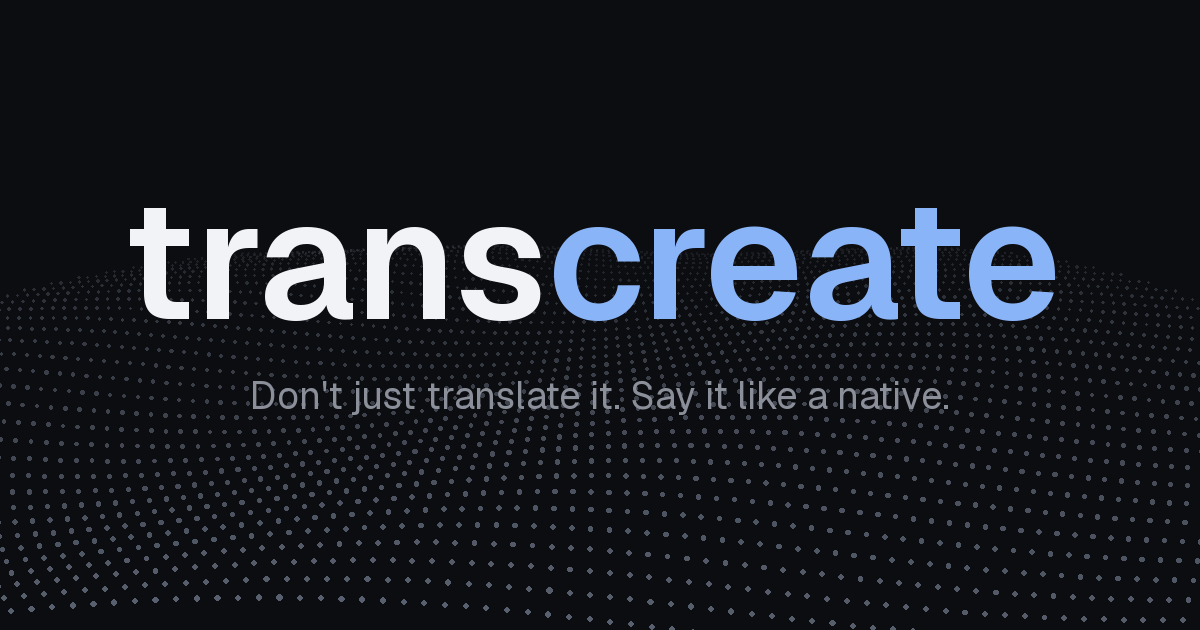
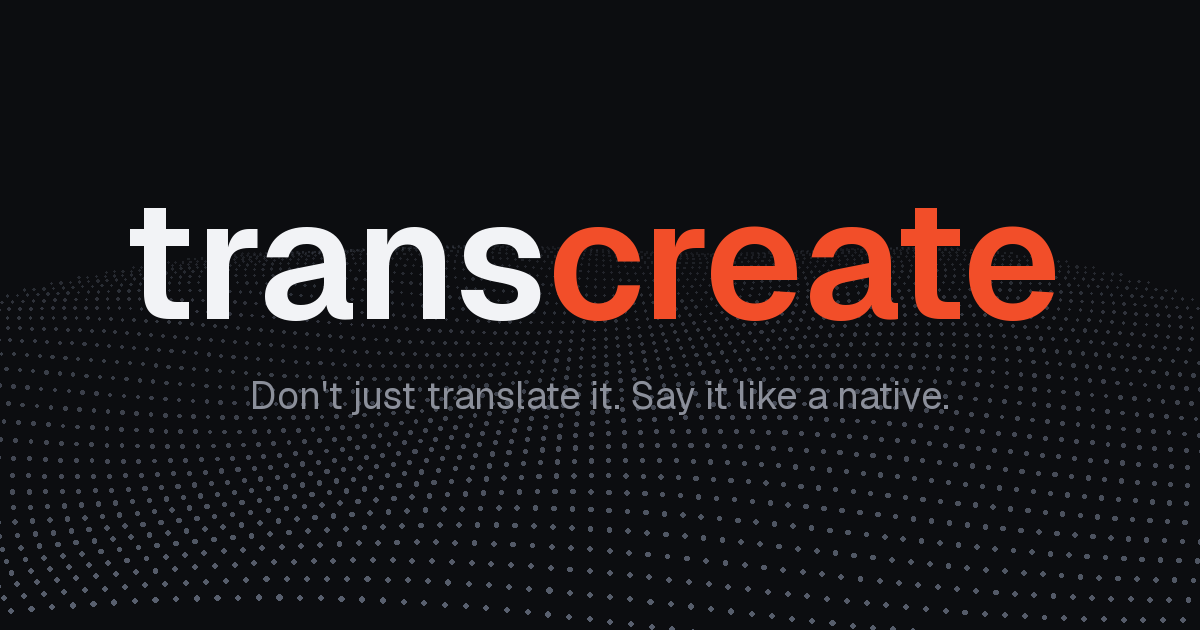
Brand Studios mark above the wordmark, brand orange replaces blue
Claude-Session: https://claude.ai/code/session_01YZgM4jxbUXSWEdovTRn7xD

Changed region(s): [[0.4625, 0.3317, 0.8942, 0.5127]]

diff --git a/site-root/index.html b/site-root/index.html
@@ -33,7 +33,7 @@
     --line: #2a2c33;
     --ink: #f2f3f6;
     --muted: #8b8f9a;
-    --accent: #8ab4f8;
+    --accent: #F24E29;
     color-scheme: dark;
   }
   * { box-sizing: border-box; }
@@ -60,9 +60,12 @@
     z-index: 1;
     width: 100%;
     max-width: 760px;
-    padding: 19vh 24px 48px;
+    padding: 13vh 24px 48px;
     flex: 1;
   }
+  .mark { display: block; width: 56px; height: 56px; margin: 0 auto 24px; border-radius: 50%; transition: transform .2s ease; }
+  .mark img { display: block; width: 100%; height: 100%; border-radius: 50%; }
+  .mark:hover { transform: scale(1.08); }
   h1 {
     font-size: 72px;
     font-weight: 600;
@@ -178,7 +181,8 @@
   footer a:hover { text-decoration: underline; }
   @media (max-width: 560px) {
     h1 { font-size: 50px; letter-spacing: -2.5px; }
-    main { padding-top: 11vh; }
+    main { padding-top: 8vh; }
+    .mark { width: 48px; height: 48px; margin-bottom: 18px; }
     .tag { height: 56px; white-space: normal; }
     .box { padding: 16px 14px 12px 18px; border-radius: 24px; }
     button.go { width: 100%; margin-left: 0; margin-top: 4px; }
@@ -190,6 +194,7 @@
 <body>
 <canvas id="wave" aria-hidden="true"></canvas>
 <main>
+  <a class="mark" href="https://brandstudios.com" target="_blank" rel="noopener" aria-label="Brand Studios"><img src="https://brandstudios.com/img/mark.png" width="56" height="56" alt="Brand Studios"></a>
   <h1>trans<span>create</span></h1>
   <p class="tag" id="tag" lang="en" aria-label="Don't just translate it. Say it like a native.">Don't just translate it. Say it like a native.</p>
 
